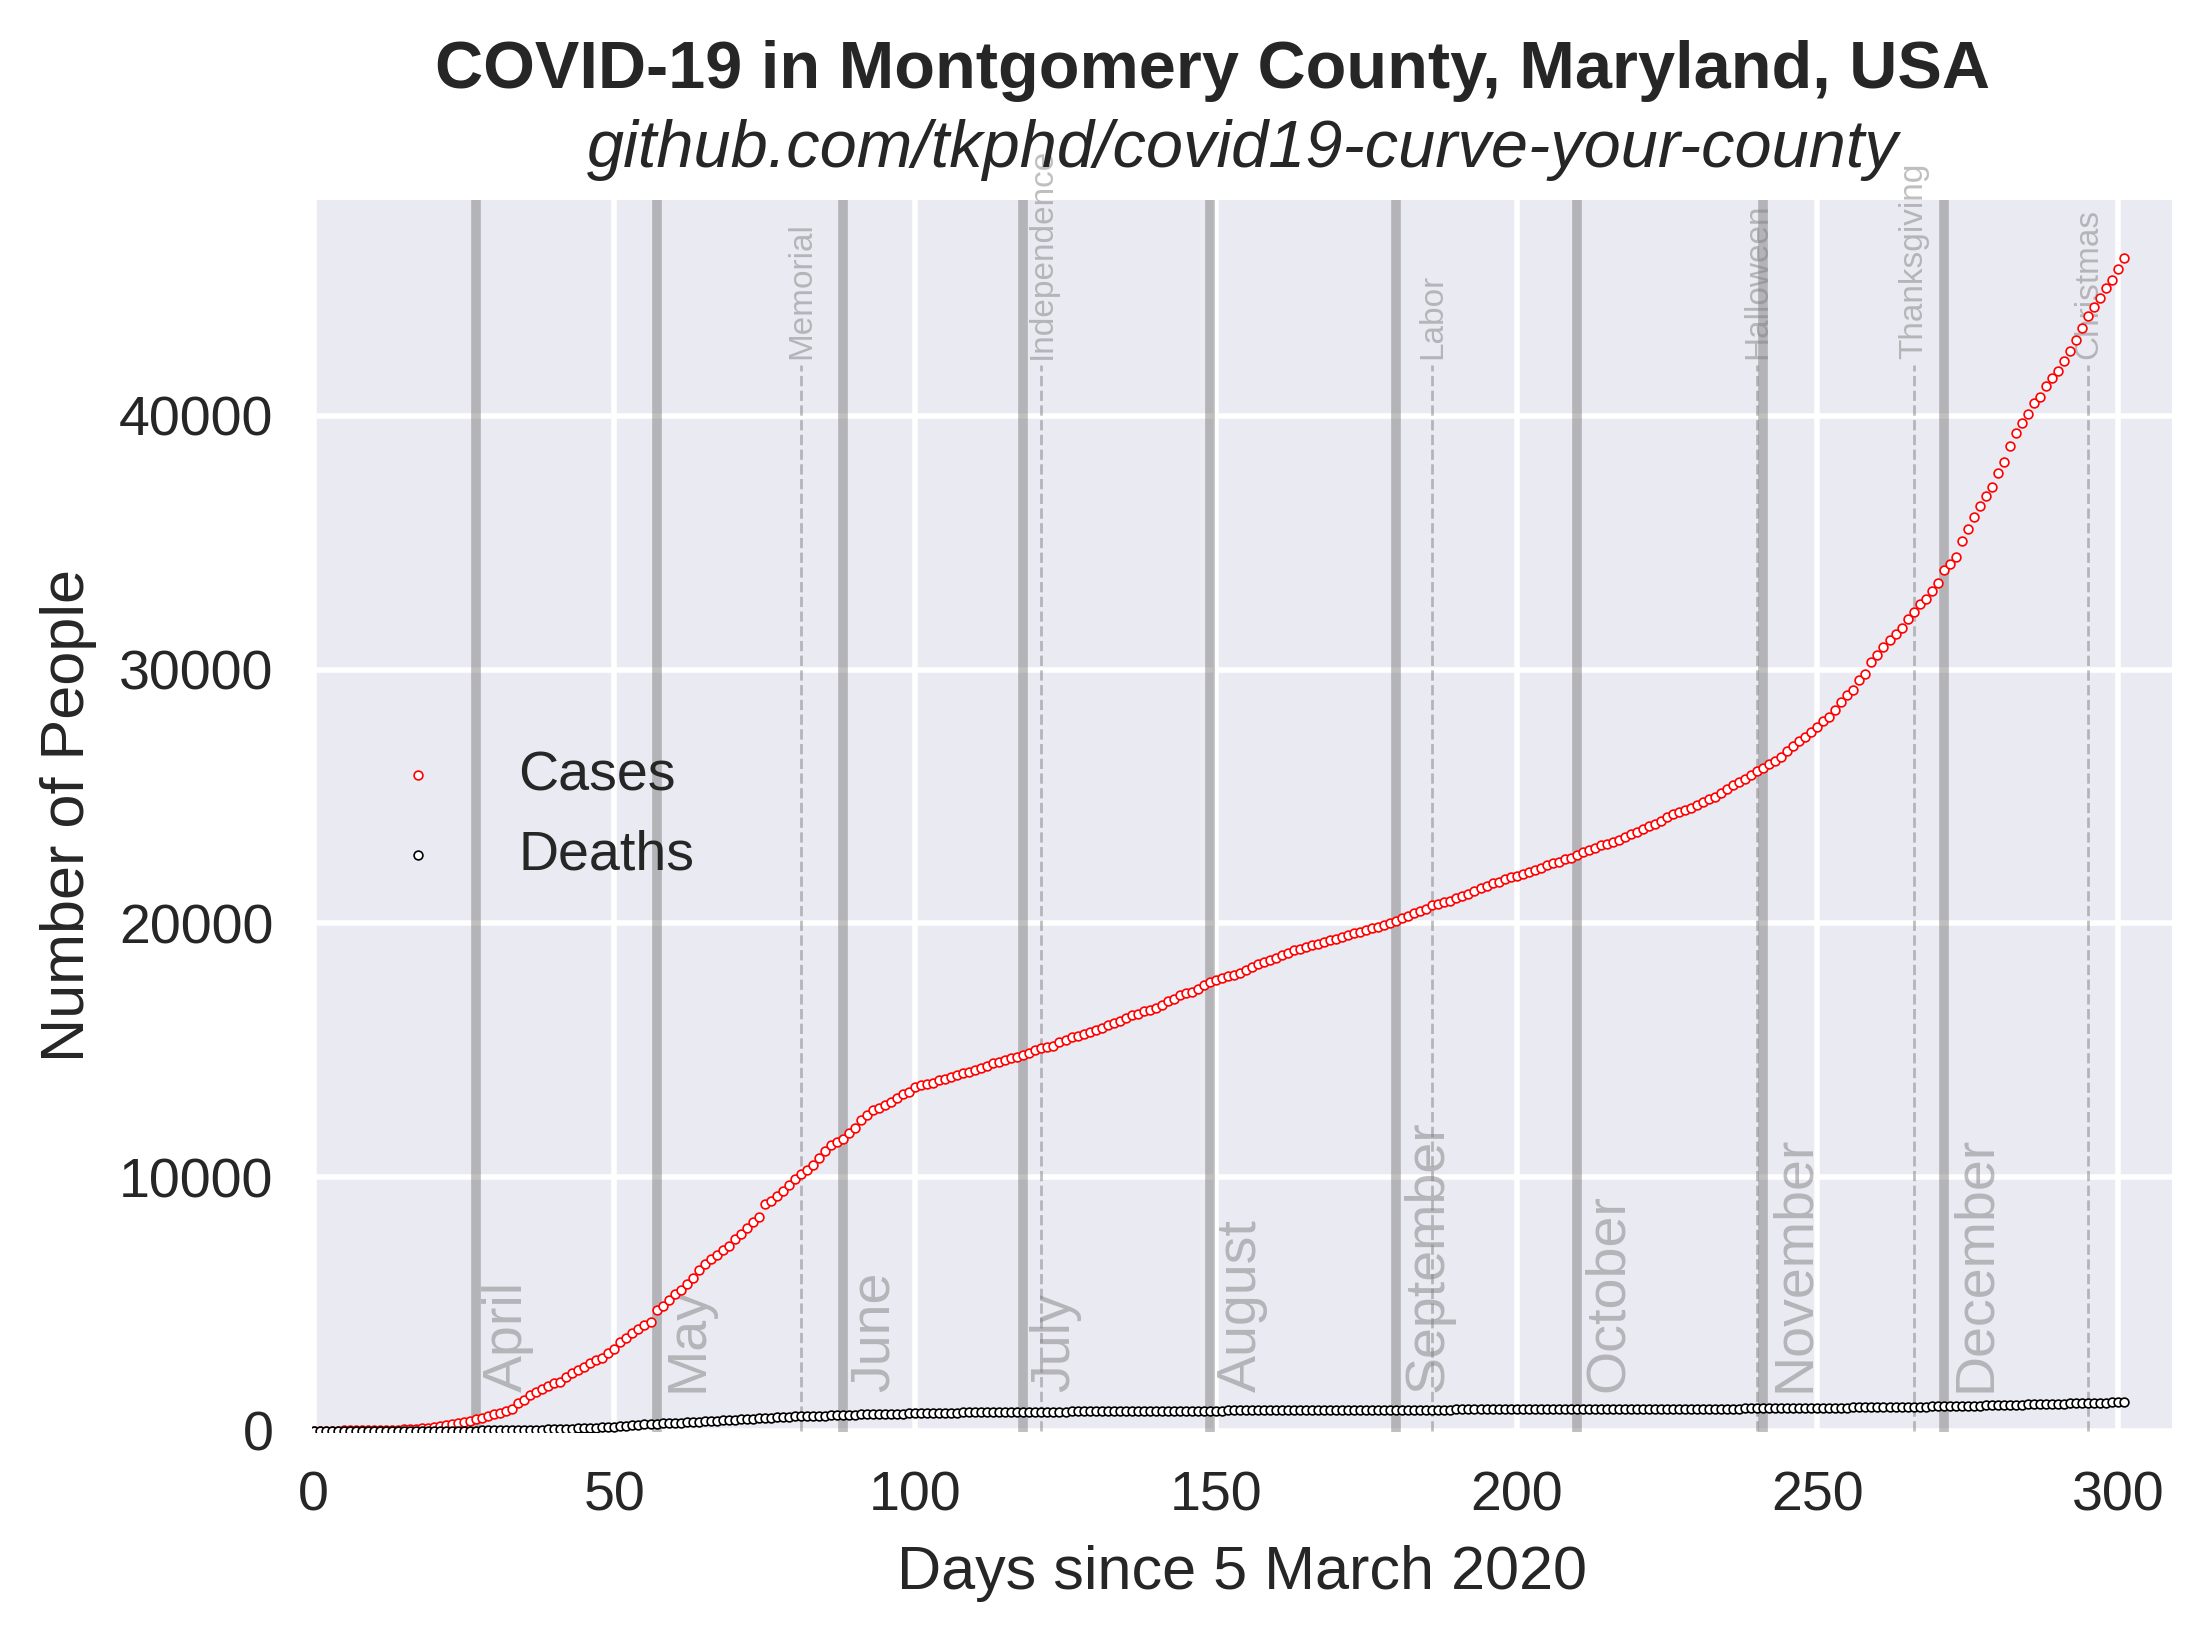
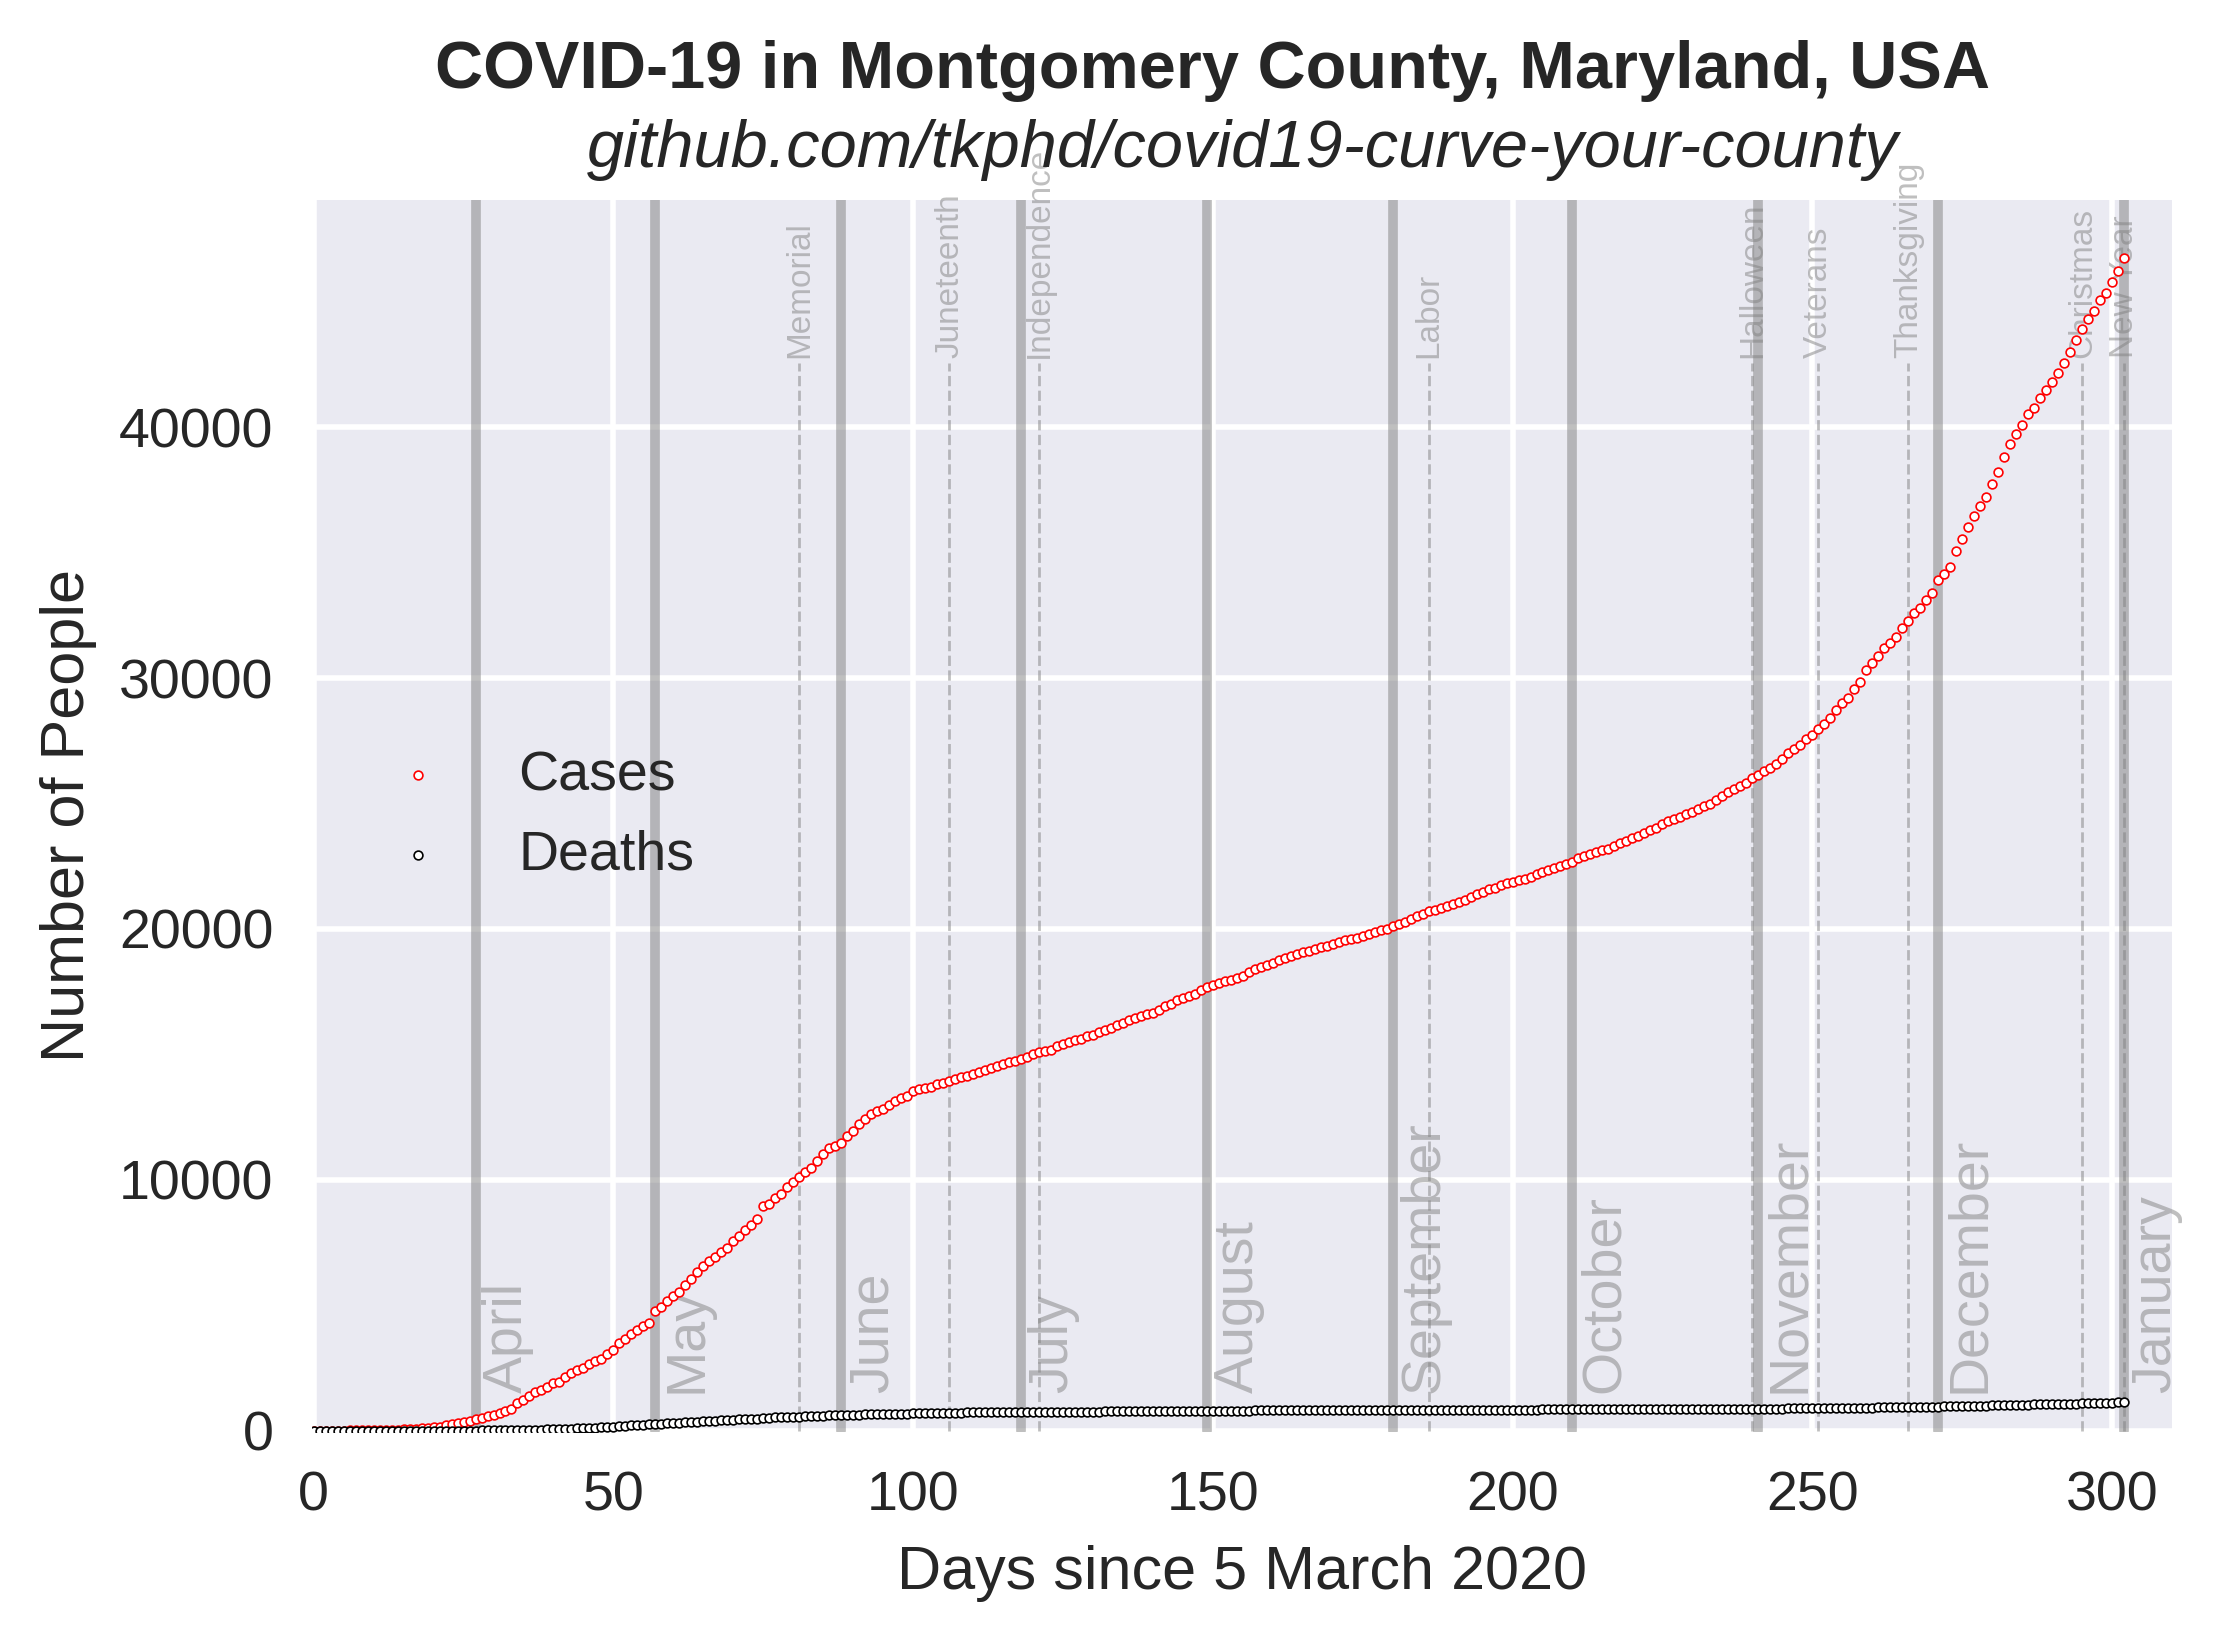
2021-01-01 update

diff --git a/exponential.py b/exponential.py
@@ -93,6 +93,7 @@ def sigfig(x, n):
     shifted_dp = x / (10 ** e)  # decimal place shifted n d.p.
     return np.around(shifted_dp) * (10 ** e)  # round and revert
 
+data = pd.read_csv(dataname)
 
 fig = plt.figure(figsize=(6, 4))
 plt.suptitle("COVID-19 in Montgomery County, Maryland, USA", fontweight="bold")
@@ -100,12 +101,6 @@ plt.title("github.com/tkphd/covid19-curve-your-county", style="oblique")
 plt.xlabel("Days since 5 March 2020")
 plt.ylabel("Number of People")
 
-# Data
-
-data = pd.read_csv(dataname)
-dmax = 1
-for key in columns:
-    dmax = max(dmax, data[key].max())
 
 start = strptime(data["date"].iloc[0], "%Y-%m-%d")
 start = date(start.tm_year, start.tm_mon, start.tm_mday).toordinal()
@@ -114,6 +109,7 @@ start = date(start.tm_year, start.tm_mon, start.tm_mday).toordinal()
 # Keep track of when successive months began, in terms of days since the "epoch", 2020-03-05.
 
 months = [
+    # 2020
     ["April",     date(2020,  4, 1).toordinal() - start],
     ["May",       date(2020,  5, 1).toordinal() - start],
     ["June",      date(2020,  6, 1).toordinal() - start],
@@ -123,32 +119,53 @@ months = [
     ["October",   date(2020, 10, 1).toordinal() - start],
     ["November",  date(2020, 11, 1).toordinal() - start],
     ["December",  date(2020, 12, 1).toordinal() - start],
-    # ["January",   date(2021,  1, 1).toordinal() - start],
-    # ["February",  date(2021,  2, 1).toordinal() - start],
-    # ["March",     date(2021,  3, 1).toordinal() - start],
-    # ["April",     date(2021,  4, 1).toordinal() - start],
-    # ["May",       date(2021,  5, 1).toordinal() - start],
-    # ["June",      date(2021,  6, 1).toordinal() - start],
-    # ["July",      date(2021,  7, 1).toordinal() - start],
-    # ["August",    date(2021,  8, 1).toordinal() - start],
-    # ["September", date(2021,  9, 1).toordinal() - start],
-    # ["October",   date(2021, 10, 1).toordinal() - start],
-    # ["November",  date(2021, 11, 1).toordinal() - start],
-    # ["December",  date(2021, 12, 1).toordinal() - start],
+    #
+    # 2021
+    ["January",   date(2021,  1, 1).toordinal() - start],
+    ["February",  date(2021,  2, 1).toordinal() - start],
+    ["March",     date(2021,  3, 1).toordinal() - start],
+    ["April",     date(2021,  4, 1).toordinal() - start],
+    ["May",       date(2021,  5, 1).toordinal() - start],
+    ["June",      date(2021,  6, 1).toordinal() - start],
+    ["July",      date(2021,  7, 1).toordinal() - start],
+    ["August",    date(2021,  8, 1).toordinal() - start],
+    ["September", date(2021,  9, 1).toordinal() - start],
+    ["October",   date(2021, 10, 1).toordinal() - start],
+    ["November",  date(2021, 11, 1).toordinal() - start],
+    ["December",  date(2021, 12, 1).toordinal() - start],
 ]
 
 holidays = [
+    # 2020
     ["Memorial",      date(2020,  5, 25).toordinal() - start],
+    ["Juneteenth",    date(2020,  6, 19).toordinal() - start],
     ["Independence",  date(2020,  7,  4).toordinal() - start],
     ["Labor",         date(2020,  9,  7).toordinal() - start],
     ["Halloween",     date(2020, 10, 31).toordinal() - start],
+    ["Veterans",      date(2020, 11, 11).toordinal() - start],
     ["Thanksgiving",  date(2020, 11, 26).toordinal() - start],
     ["Christmas",     date(2020, 12, 25).toordinal() - start],
-    # ["New Year",     date(2021,  1,  1).toordinal() - start],
+    #
+    # 2021
+    ["New Year",      date(2021,  1,  1).toordinal() - start],
+    ["MLK, Jr",       date(2021,  1, 18).toordinal() - start],
+    ["Inauguration",  date(2021,  1, 20).toordinal() - start],
+    ["Presidents",    date(2021,  2, 15).toordinal() - start],
+    ["Earth",         date(2021,  4, 22).toordinal() - start],
+    ["Memorial",      date(2021,  5, 31).toordinal() - start],
+    ["Juneteenth",    date(2021,  6, 19).toordinal() - start],
+    ["Independence",  date(2021,  7,  4).toordinal() - start],
+    ["Labor",         date(2021,  9,  6).toordinal() - start],
+    ["Indigenous",    date(2021, 10, 11).toordinal() - start],
+    ["Halloween",     date(2021, 10, 31).toordinal() - start],
+    ["Veterans",      date(2021, 11, 11).toordinal() - start],
+    ["Thanksgiving",  date(2021, 11, 25).toordinal() - start],
+    ["Christmas",     date(2021, 12, 25).toordinal() - start],
+
 ]
 
 today = strptime(data["date"].iloc[-1], "%Y-%m-%d")
-today = date(today.tm_year, today.tm_mon, today.tm_mday).toordinal()
+today = date(today.tm_year, today.tm_mon, today.tm_mday).toordinal() - start
 
 y_off = 1 + 0.35  # offset for equation boxes
 
@@ -188,13 +205,15 @@ plt.ylim([-50, ymax])
 
 # Label months
 for month, day in months:
-    plt.plot((day, day), (0, ymax), c="gray", alpha=0.5, zorder=1)
-    plt.text(day + 1, 2000, month, rotation=90, c="gray", alpha=0.5, zorder=1)
+    if day <= today:
+        plt.plot((day, day), (0, ymax), c="gray", alpha=0.5, zorder=1)
+        plt.text(day + 1, 2000, month, rotation=90, c="gray", alpha=0.5, zorder=1)
 
 # Label holidays
 for holiday, day in holidays:
-    plt.plot((day, day), (0, ymax - 6500), c="gray", linestyle='dashed', linewidth=0.5, alpha=0.5, zorder=1)
-    plt.text(day - 2.5, ymax - 6000, holiday, rotation=90, c="gray", fontsize=6, alpha=0.5, zorder=1)
+    if day <= today:
+        plt.plot((day, day), (0, ymax - 6500), c="gray", linestyle='dashed', linewidth=0.5, alpha=0.5, zorder=1)
+        plt.text(day - 2.5, ymax - 6000, holiday, rotation=90, c="gray", fontsize=6, alpha=0.5, zorder=1)
 
 # Save figure
 plt.legend(loc="center left")
@@ -261,15 +280,17 @@ ax2.plot(
 
 # Label months
 for month, day in months:
-    cases = data.loc[day, "diagnosed"]
-    plt.plot((cases, cases), (0, 32), c="gray", alpha=0.5, zorder=1)
-    plt.text(cases + 1, 1, month, rotation=90, c="gray", alpha=0.5, zorder=1)
+    if day <= today:
+        cases = data.loc[day, "diagnosed"]
+        plt.plot((cases, cases), (0, 32), c="gray", alpha=0.5, zorder=1)
+        plt.text(cases + 1, 1, month, rotation=90, c="gray", alpha=0.5, zorder=1)
 
 # Label holidays
 for holiday, day in holidays:
-    cases = data.loc[day, "diagnosed"]
-    plt.plot((cases, cases), (0, 26.25), c="gray", linestyle='dashed', linewidth=0.5, alpha=0.5, zorder=1)
-    plt.text(cases - 300, 26.75, holiday, rotation=90, c="gray", fontsize=6, alpha=0.5, zorder=1)
+    if day <= today:
+        cases = data.loc[day, "diagnosed"]
+        plt.plot((cases, cases), (0, 26.25), c="gray", linestyle='dashed', linewidth=0.5, alpha=0.5, zorder=1)
+        plt.text(cases - 300, 26.75, holiday, rotation=90, c="gray", fontsize=6, alpha=0.5, zorder=1)
 
 
 plt.savefig("increment.png", dpi=400, bbox_inches="tight")
